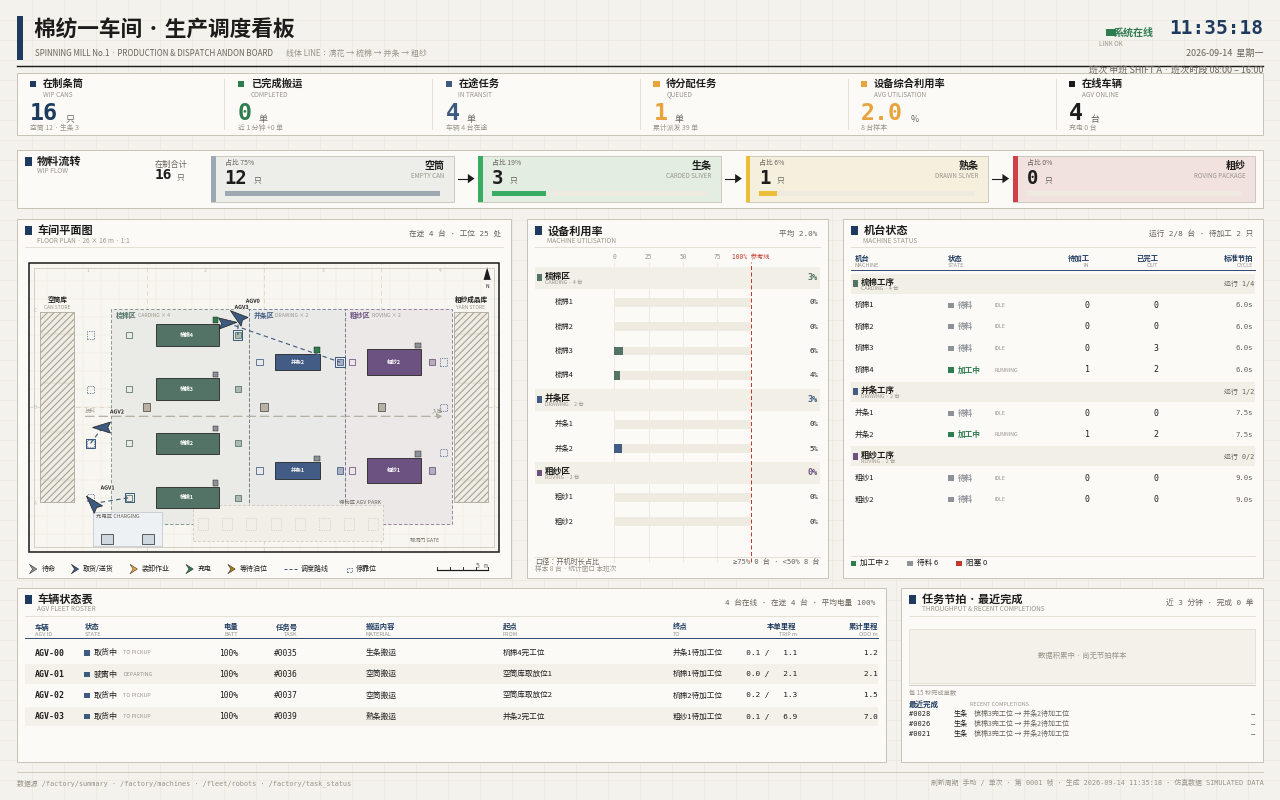
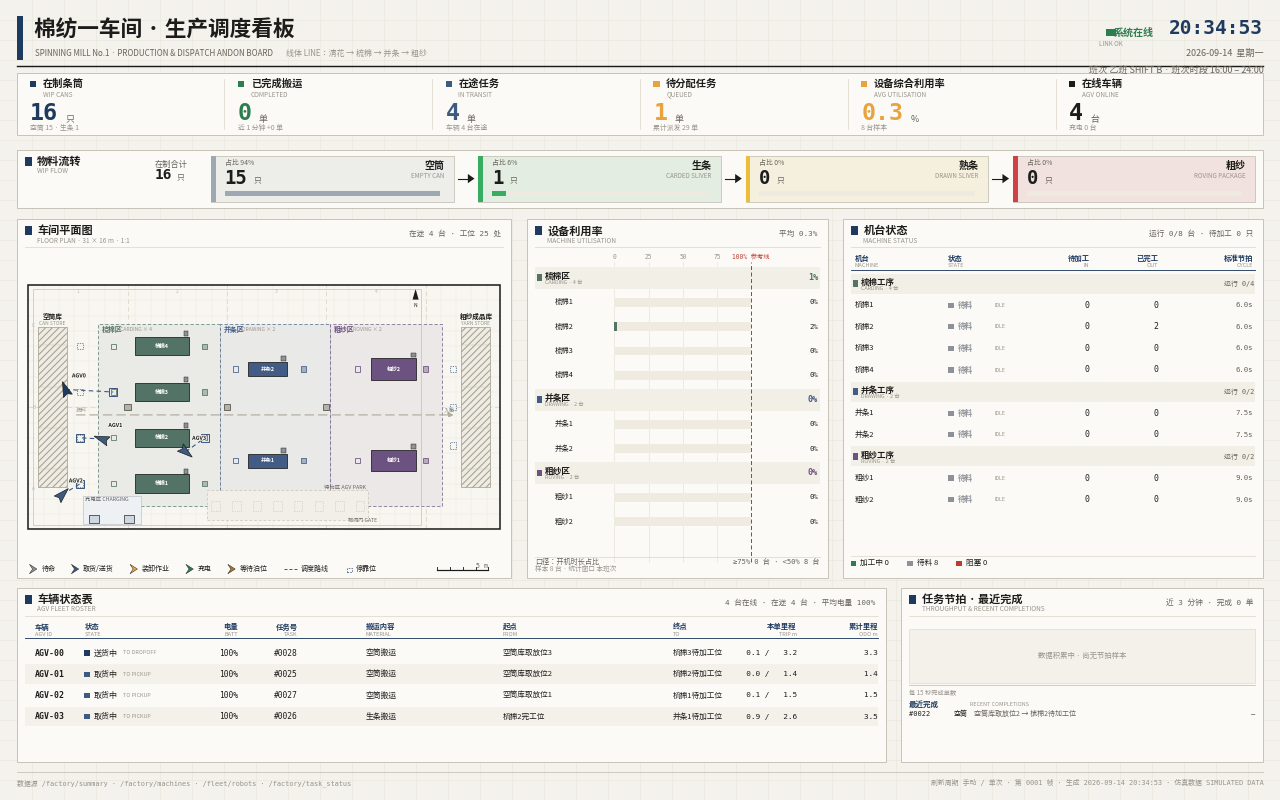
The floor plan drew outside its own frame after the layout change
You spotted the red-store rack overlapping the right-hand panels. The panels themselves do
not overlap - the map panel ends at 0.3995 and the next begins at 0.4115 - so the fault was
the map content escaping its own coordinate range. dashboard._draw_map had the world extent
hard-coded: xlim -0.25 to 26.25, a 26 x 16 floor rectangle, and fixed stage-zone edges at
4.55/12.15/17.50/23.40. Section 63 moved the red store east to about x=28 with its rack edge
at 30.25, so it was drawn past the axis limit and over the material-flow panel, hiding the
生条/熟条/粗纱 labels. tools/render_demo.py had the same defect - zone cuts at 17.7/26.0, a
column grid over range(1, 26), and pixel scaling from a fixed BUILDING width of 26.

Both renderers now share one derivation with the layout. layout.world_bounds() computes the
visible extent from the actual rack, store and station positions; BUILDING["w"] is
synchronised there so the pixel scale follows; the dashboard derives its floor, grid, column
lines, centreline, outer frame, stage zones and flow arrow from those bounds, and its panel
subtitle now prints the real size instead of 26 x 16. render_demo derives zone cuts from the
midpoints between adjacent stages and stops its column grid at the east bound. The easternmost
element now sits at x=30.25 against a bound of 30.85.

The lesson is the same one sections 52 and 53 established for parameters: any quantity derived
[…]

diff --git a/src/fleetflow_sim/fleetflow_sim/dashboard.py b/src/fleetflow_sim/fleetflow_sim/dashboard.py
@@ -598,7 +598,9 @@ class Dashboard(Node):
         b.rect(x0, y0, w, h, facecolor=PANEL, edgecolor=RULE, lw=0.8, zorder=1)
         b.rect(x0 + 0.0062, y0 + h - 0.0200, 0.0055, 0.0110, facecolor=NAVY, zorder=3)
         b.text(x0 + 0.0160, y0 + h - 0.0145, "车间平面图", size=10.0, weight="bold", color=INK)
-        b.text(x0 + 0.0160, y0 + h - 0.0272, "FLOOR PLAN · 26 × 16 m · 1:1",
+        _bw, _bh = layout.world_bounds()[1] - layout.world_bounds()[0], 16.0
+        b.text(x0 + 0.0160, y0 + h - 0.0272,
+               f"FLOOR PLAN · {_bw:.0f} × {_bh:.0f} m · 1:1",
                size=5.9, color=FAINT)
         n_move = sum(1 for r in self.robots.values() if r.task_id is not None and r.task_id >= 0)
         b.text(x0 + w - 0.008, y0 + h - 0.0180, f"在途 {n_move} 台 · 工位 {len(layout.all_station_points())} 处",
@@ -645,31 +647,44 @@ class Dashboard(Node):
                family=FONT_MONO)
 
     def _draw_map(self, b, ax, box_w_px, box_h_px):
-        x_min, x_max = -0.25, 26.25
-        y_mid, x_span = 8.0, (x_max - x_min)
+        # 可视范围必须跟着布局走（见 layout.world_bounds 的注释）：
+        # 工序净宽改成 2.0 m 之后红料库东移到 x≈28，写死的 26.25 会把
+        # 货架画到地图框外、压住右侧面板。这里改成推导 + 左右各留一点边。
+        wx0, wx1, wy0, wy1 = layout.world_bounds()
+        x_min, x_max = wx0 - 0.25, wx1 + 0.25
+        y_mid, x_span = (wy0 + wy1) / 2, (x_max - x_min)
         y_span = x_span * box_h_px / box_w_px
         ax.set_xlim(x_min, x_max)
         ax.set_ylim(y_mid - y_span / 2, y_mid + y_span / 2)
 
         # 地面 + 1m 细格 + 柱网
-        ax.add_patch(Rectangle((0, 0), 26, 16, facecolor="#f8f6f0", edgecolor="none", zorder=0))
-        for gx in range(1, 26):
-            ax.plot([gx, gx], [0, 16], color="#eae6db", lw=0.35, zorder=1)
-        for gy in range(1, 16):
-            ax.plot([0, 26], [gy, gy], color="#eae6db", lw=0.35, zorder=1)
-        for gx in [layout.COLUMN_PITCH * k for k in range(1, 4)]:
-            ax.plot([gx, gx], [0, 16], color="#ddd7c8", lw=0.7, ls=(0, (6, 4)), zorder=1.2)
-        ax.plot([0, 26], [8, 8], color="#ddd7c8", lw=0.7, ls=(0, (6, 4)), zorder=1.2)
+        floor_w, floor_h = wx1 - wx0, wy1 - wy0
+        ax.add_patch(Rectangle((wx0, wy0), floor_w, floor_h,
+                               facecolor="#f8f6f0", edgecolor="none", zorder=0))
+        for gx in range(int(wx0) + 1, int(wx1) + 1):
+            ax.plot([gx, gx], [wy0, wy1], color="#eae6db", lw=0.35, zorder=1)
+        for gy in range(int(wy0) + 1, int(wy1) + 1):
+            ax.plot([wx0, wx1], [gy, gy], color="#eae6db", lw=0.35, zorder=1)
+        for gx in [layout.COLUMN_PITCH * k for k in range(1, 5)
+                   if layout.COLUMN_PITCH * k < wx1]:
+            ax.plot([gx, gx], [wy0, wy1], color="#ddd7c8", lw=0.7, ls=(0, (6, 4)), zorder=1.2)
+        ax.plot([wx0, wx1], [8, 8], color="#ddd7c8", lw=0.7, ls=(0, (6, 4)), zorder=1.2)
 
         # 工序流向（空筒库 → 成品库，走 y=7.5 的通道）
-        ax.annotate("", xy=(23.0, 7.5), xytext=(3.0, 7.5),
+        ax.annotate("", xy=(layout.STORAGE_SLOTS["red"]["x"] + 0.2, 7.5), xytext=(3.0, 7.5),
                     arrowprops=dict(arrowstyle="-|>", color="#b3ada0", lw=1.1,
                                     linestyle=(0, (7, 4))), zorder=2)
         ax.text(3.10, 7.62, "投料", color=FAINT, fontsize=5.0, ha="left", va="bottom", zorder=3)
-        ax.text(22.90, 7.62, "入库", color=FAINT, fontsize=5.0, ha="right", va="bottom", zorder=3)
+        ax.text(layout.STORAGE_SLOTS["red"]["x"] + 0.1, 7.62, "入库", color=FAINT,
+                fontsize=5.0, ha="right", va="bottom", zorder=3)
 
         # 三个工序区
-        edges = [(4.55, 12.15), (12.15, 17.50), (17.50, 23.40)]
+        # 工序区边界由该段自己的等料位/完工位推出，写死会在改净宽后错位
+        edges = []
+        for i, st in enumerate(layout.STAGES):
+            left = st["wait_x"] - 1.00 if i == 0 else (st["wait_x"] + layout.STAGES[i-1]["done_x"]) / 2
+            right = (st["done_x"] + layout.STAGES[i+1]["wait_x"]) / 2 if i + 1 < len(layout.STAGES) else st["done_x"] + 1.10
+            edges.append((left, right))
         for st, (zx0, zx1) in zip(layout.STAGES, edges):
             rgb = _stage_rgb(st["name"])
             ax.add_patch(Rectangle((zx0, 1.55), zx1 - zx0, 11.90, facecolor=_tint(rgb, 0.925),
@@ -787,7 +802,8 @@ class Dashboard(Node):
                 va="center", zorder=3)
 
         # 墙体（双线）+ 柱子
-        ax.add_patch(Rectangle((0, 0), 26, 16, facecolor="none", edgecolor=INK, lw=1.4, zorder=6))
+        ax.add_patch(Rectangle((wx0, wy0), wx1 - wx0, wy1 - wy0,
+                               facecolor="none", edgecolor=INK, lw=1.4, zorder=6))
         ax.add_patch(Rectangle((0.28, 0.28), 25.44, 15.44, facecolor="none",
                                edgecolor="#b8b2a4", lw=0.5, zorder=6))
         for gx in [layout.COLUMN_PITCH * k for k in range(1, 4)]:

diff --git a/src/fleetflow_sim/fleetflow_sim/layout.py b/src/fleetflow_sim/fleetflow_sim/layout.py
@@ -14,6 +14,8 @@
 from __future__ import annotations
 
 # ---------------------------------------------------------------- 厂房
+# 厂房外形尺寸。**w 必须等于 world_bounds 的宽度** —— 渲染器用它做
+# 世界→像素的缩放，写死就会在改布局后把货架画到图外（第 64 节）。
 BUILDING = dict(w=26.0, h=16.0, wall_h=6.0)
 FIELD = dict(x_min=0.85, x_max=25.15, y_min=0.85, y_max=15.15)
 
@@ -224,6 +226,28 @@ def bootstrap() -> int:
     except ValueError:
         return len(STORAGE_SLOTS["empty"]["ys"])
 
+
+
+def world_bounds() -> tuple[float, float, float, float]:
+    """厂房在世界里的可视边界 (x_min, x_max, y_min, y_max)。
+
+    **必须由布局推导，不能写死。** 画图（dashboard / live_view）原先硬编码
+    `xlim = -0.25 … 26.25`、地面矩形 26×16，而工序净宽改成 2.0 m 之后
+    红料库移到了 x≈28 —— 于是货架被画到地图框外，压住了右侧面板。
+    这类"布局一改、绘图就错位"的问题只有让两边共用同一份推导才能根除。
+    """
+    rack_half = RACK["depth"] / 2
+    x_min = min(0.0, STORAGE["empty"]["x"] - RACK["w"])
+    x_max = max(s["done_x"] for s in STAGES)
+    x_max = max(x_max, STORAGE["red"]["x"] + rack_half)
+    for pt in STORAGE_SLOT_POINTS.values():
+        x_max = max(x_max, pt["x"])
+        x_min = min(x_min, pt["x"])
+    y_min, y_max = 0.0, 16.0
+    out = (x_min, x_max + 0.6, y_min, y_max)
+    # 同步 BUILDING.w：渲染器的像素缩放依赖它，二者必须一致
+    BUILDING["w"] = out[1] - out[0]
+    return out
 
 
 # ---- 用新的默认净宽重建一次派生坐标 ----

diff --git a/tools/render_demo.py b/tools/render_demo.py
@@ -102,12 +102,18 @@ def draw_floor(ax):
     ax.add_patch(Rectangle((bx, by), W * s, H * s, facecolor="#ffffff",
                            edgecolor="none", zorder=1))
     # 分区底色：按工序把 x 切成三段
-    for x0, x1, col in ((0.0, 11.2, "#eef2ee"), (11.2, 17.7, "#eceff4"),
-                        (17.7, 26.0, "#f1eef4")):
+    # 分区边界由工序的等料位/完工位推出（写死会在改净宽后错位）
+    bounds = L.world_bounds()
+    mids = [(L.STAGES[i]["done_x"] + L.STAGES[i + 1]["wait_x"]) / 2
+            for i in range(len(L.STAGES) - 1)]
+    cuts = [bounds[0]] + mids + [bounds[1]]
+    tints = ("#eef2ee", "#eceff4", "#f1eef4")
+    for k, (x0, x1) in enumerate(zip(cuts, cuts[1:])):
+        col = tints[min(k, len(tints) - 1)]
         px, py, _ = w2p(x0, 0)
         ax.add_patch(Rectangle((px, py), (x1 - x0) * s, H * s, facecolor=col,
                                edgecolor="none", zorder=2))
-    for x in range(1, 26, 2):                      # 柱网
+    for x in range(1, int(bounds[1]) + 1, 2):      # 柱网（到厂房东界为止）
         px, py, _ = w2p(x, 0)
         ax.plot([px, px], [py, py + H * s], color=RULE, lw=0.4, alpha=0.5, zorder=3)
     # 机台
